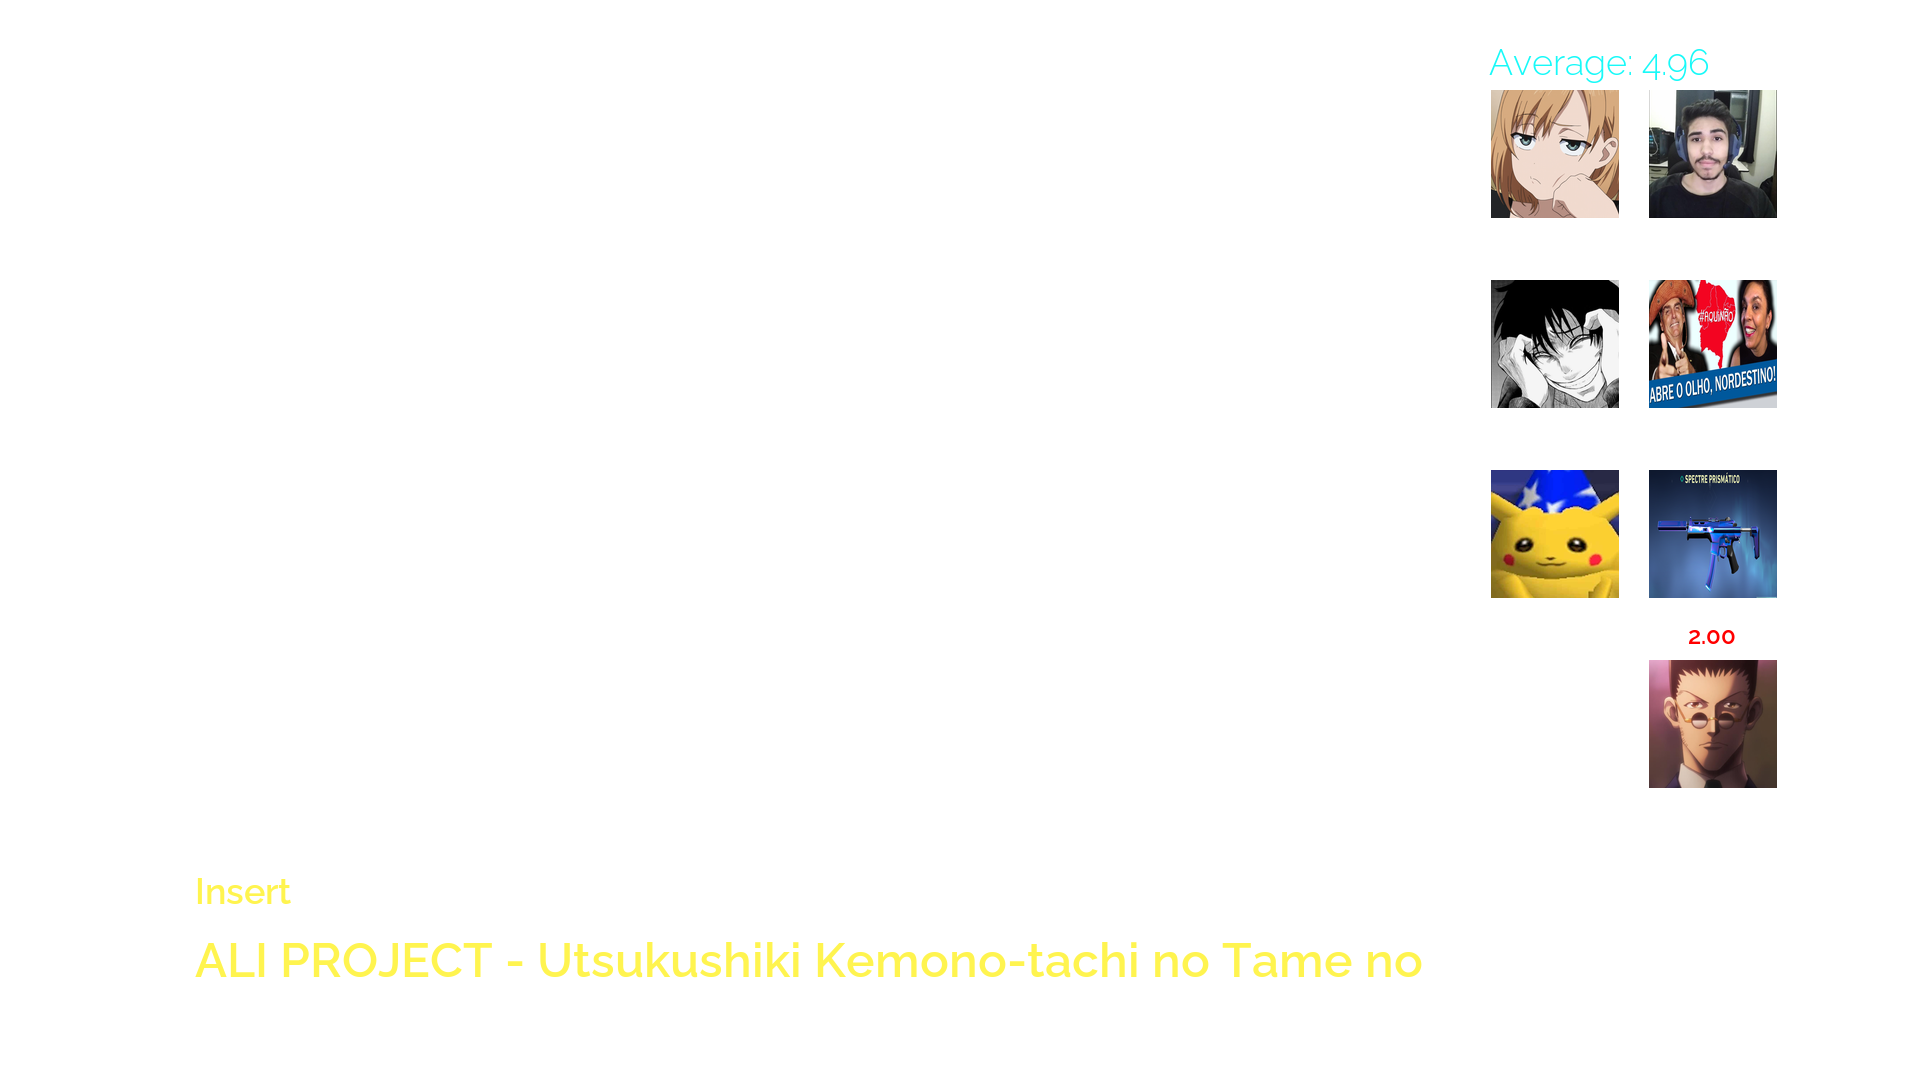
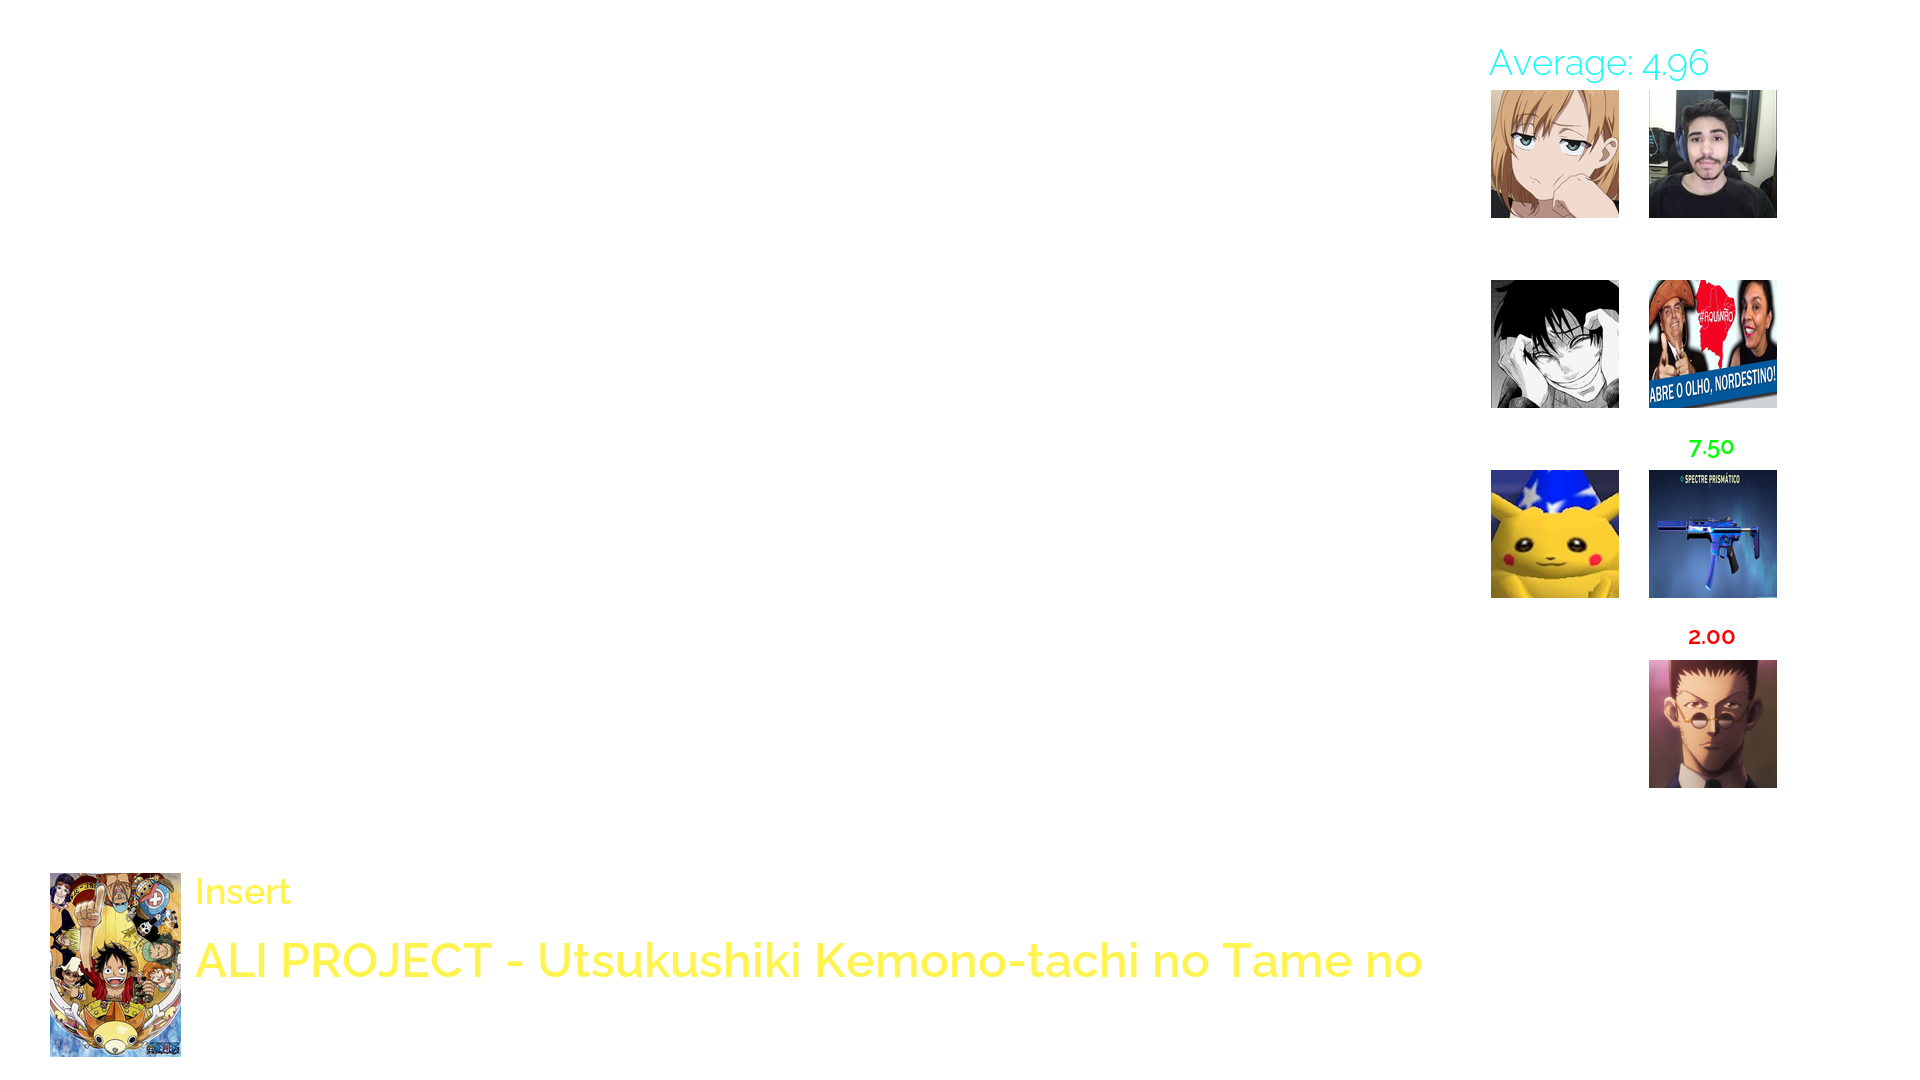
Implementado cores para mensagens
Iniciado implementação da refatoração do código do VideoGenerator

Changed region(s): [[0.0, 0.7944, 0.0938, 0.9778], [0.875, 0.3972, 0.9062, 0.4278]]

diff --git a/entities/image_generator.py b/entities/image_generator.py
@@ -5,53 +5,67 @@ from config import Config
 from entities.colors import Colors
 from entities.fonts import Fonts
 from entities.song import Song
+from entities.terminal_messages import TerminalMessages
 from entities.participant import Participant
 from .pixels_position import getPixels
 import requests
 
 class ImageGenerator:
   def __init__(self, data : str):
-    self._title = data["title"]
-    self.songs = []
-    self.participants_name = data['participants']
-    self.pixels = getPixels(len(self.participants_name))
-    self.__check_images(self.participants_name)
+    self.__title  = data["title"]
+    self.__songs = []
+    self.__participants_name = data['participants']
+    self.pixels = getPixels(len(self.__participants_name))
+    self.__check_images(self.__participants_name)
     series = data['series']
     for serie in series:
       participants = []
       for index, p in enumerate(series[serie]['notes']):
-        participant = Participant(self.participants_name[index], p)
+        participant = Participant(self.__participants_name[index], p)
         participants.append(participant)
       participants.sort(key=lambda x: x.get_grade(), reverse=False)
       song = Song(serie, series[serie]['type'], series[serie]['song'], participants, series[serie]['average'], series[serie]['cover'])
-      self.songs.append(song)
+      self.__songs.append(song)
 
   def generate_images(self) -> bool:
-    for index, song in enumerate(self.songs):
-      self.__generate_image(song, f'{str(index)}.png')
+    TerminalMessages.warning('Generating images...')
+    for index, song in enumerate(self.__songs):
+      TerminalMessages.blue(f'Generating image of "{song.get_name()}"...')
+      self.__generate_image(song, str(len(self.__songs) - index), f'{str(index)}.png')
+    TerminalMessages.success('Completed.')
     return True
   
-  def __generate_image(self, song: Song, file_name: str):
-    (song.get_participants_name())
+  def __generate_image(self, song: Song, position: str, file_name: str):
+    # song.get_participants_name() // Loog de posição e notas dos participantes
     image = Image.new('RGBA', (1920, 1080), color='#00000000')
-    self.__place_info_text_in_image(song.get_name(), song.get_song(), song.get_type(), self._title, image)
+    self.__place_info_text_in_image(song.get_name(), song.get_song(), song.get_type(), self.__title , position, image)
     self.__place_white_rectangle_as_border(image)
     self.__place_average_grade(song.get_average(), image)
     self.__place_participants_images(song.get_participants(), image)
+    self.__place_cover_image(song.get_cover(), image)
     image.save(f"{Config.SAVE_PATH}/{file_name}")
 
+  def __place_cover_image(self, cover: str, image: Image):
+    if not Path(Config.THUMBNAIL_PATH+"/{}".format(cover)).is_file():
+      TerminalMessages.error(f'Failed placing cover image: Did not find cover image: "{cover}"')
+      return
+    cover = Image.open(Config.THUMBNAIL_PATH+"/{}".format(cover)).convert('RGB').resize((131, 184), Image.Resampling.LANCZOS)
+    image.paste(cover, (50, 873))
+  
   def __place_participants_images(self, participants: list, image: Image) -> ImageDraw:
     draw = ImageDraw.Draw(image)
     for i, participant in enumerate(participants):
+      
+      if not Path(Config.PARTICIPANTS_PATH + "/{}.png".format(participant.get_name())).is_file():
+        raise ImageGeneratorException(f'Did not find image from participant: {participant.get_name()}')
+      
       color = 1 if i == 0 else 2 if i == len(participants) - 1 else 0
       
-      draw.text(self.pixels[0][self.participants_name.index(participant.get_name())], participant.get_name(),fill=(255, 255, 255), font=Fonts.font242, anchor='mm')
-      draw.text(self.pixels[1][self.participants_name.index(participant.get_name())], participant.get_grade(), fill=Colors.colors_note[color], font=Fonts.font242, anchor='mm')
-      parImg = Image.open(Config.PARTICIPANTS_PATH + "/{}.png".format(participant.get_name()))
-      parImg = parImg.convert('RGB')
-      parImg = parImg.resize((128, 128), Image.Resampling.LANCZOS)
+      draw.text(self.pixels[0][self.__participants_name.index(participant.get_name())], participant.get_name(),fill=(255, 255, 255), font=Fonts.font242, anchor='mm')
+      draw.text(self.pixels[1][self.__participants_name.index(participant.get_name())], participant.get_grade(), fill=Colors.colors_note[color], font=Fonts.font242, anchor='mm')
+      parImg = ((Image.open(Config.PARTICIPANTS_PATH + "/{}.png".format(participant.get_name()))).convert('RGB')).resize((128, 128), Image.Resampling.LANCZOS)
       parImg = ImageOps.expand(parImg, border=(2, 2, 2, 2), fill="#ffffff")
-      image.paste(parImg, self.pixels[2][self.participants_name.index(participant.get_name())])
+      image.paste(parImg, self.pixels[2][self.__participants_name.index(participant.get_name())])
     return draw
   
   def __check_images(self, participants: list):
@@ -69,27 +83,24 @@ class ImageGenerator:
     text.rectangle(((49, 87), (1330, 808)),outline="white")
     return text 
   
-  def __place_info_text_in_image(self, anime: str, song: str, type:str, title: str, image) -> ImageDraw:
+  def __place_info_text_in_image(self, anime: str, song: str, type:str, title: str, position:str, image : Image) -> ImageDraw:
     text = ImageDraw.Draw(image)
     text.text((195, 1029), anime, fill=(255, 255, 255), font=Fonts.font482, anchor='lm')
     text.text((195, 960), song, fill=(255, 244, 79), font=Fonts.font482, anchor='lm')
     text.text((195, 891), type, fill=(255, 244, 79), font=Fonts.font362, anchor='lm')
     text.text((51, 80), title, fill=(255, 255, 255),font=Fonts.font242, anchor='ld')
-    text.text((113, 839), str('REMEMBER NUMBER'), fill=(255, 255, 255), font=Fonts.font60, anchor='mm')
+    text.text((113, 839), position, fill=(255, 255, 255), font=Fonts.font60, anchor='mm')
     return text
 
   def get_participants_name(self):
-    return ' '.join(self.participants_name)
-
+    return ' '.join(self.__participants_name)
   
   def __get_images_from_web_server(self, participants: list):
     for participant in participants:
-        print('-------------')
-        print(participant)
         response = requests.get(Config.WEBURL + "/{}.png".format(participant))
         if(response.status_code == 200):
           img = Image.open(BytesIO(response.content))
           img = img.resize((640,640), Image.Resampling.LANCZOS)
           img.save(Config.PARTICIPANTS_PATH + "/{}.png".format(participant))
         else:
-          print(f'NÃO ACHOU IMAGEM: {participant}') 
+          TerminalMessages.error(f'Did not find image from participant: "{participant}"') 

diff --git a/config.py b/config.py
@@ -4,7 +4,8 @@ class Config:
   google = False
 
   root_dirname = path.abspath(path.join(__file__, pardir))
-  JSON_PATH = path.abspath(path.join(root_dirname, 'images.json'))
+  IMAGES_JSON_PATH = path.abspath(path.join(root_dirname, 'images.json'))
+  VIDEOS_JSON_PATH = path.abspath(path.join(root_dirname, 'video.json'))
 
   RALEWAY_LIGHT_PATH = path.join(root_dirname, 'assets', 'fonts', 'Raleway-Light.ttf')
   RALEWAY_SEMI_PATH = path.join(root_dirname, 'assets', 'fonts', 'Raleway-SemiBold.ttf')
@@ -13,10 +14,16 @@ class Config:
 
   THUMBNAIL_PATH = "./images_generator/thumbnails"
   PARTICIPANTS_PATH = path.abspath(path.join(root_dirname, "assets", "participants-images"))
+  THUMBNAIL_PATH = path.abspath(path.join(root_dirname, "assets", "cover-images"))
   
   SAVE_PATH = path.abspath(path.join(root_dirname, "result", "images"))
+  VIDEO_PATH = path.abspath(path.join(root_dirname, "result", "videos"))
+
 
   if(google == True):
+      VIDEO_PATH = "/content/drive/MyDrive/output_party_rank/"
+      JSON_PATH = "/content/party-rank-video-generator/json_example.json"
+      
       THUMBNAIL_PATH = "/content/party-rank-video-generator/images_generator/thumbnails"
       JSON_PATH = "/content/party-rank-video-generator/images_generator/series2.json"
       RALEWAY_LIGHT_PATH = "/content/party-rank-video-generator/images_generator/Raleway-Light.ttf"

diff --git a/main.py b/main.py
@@ -1,18 +1,18 @@
 from entities.image_generator import ImageGenerator 
+from entities.terminal_messages import TerminalMessages 
 from config import Config
 import json
-
+import os
 print('Executing')
 
 def leave():
   print("Programa encerrado.")
 
 def generate_images():
-  with open(Config.JSON_PATH, 'r') as f:
+  with open(Config.IMAGES_JSON_PATH, 'r') as f:
       series = json.load(f)
   generator = ImageGenerator(series)
   generator.generate_images()
-  print(generator.get_participants_name())
 
 options = [
   {
@@ -30,8 +30,8 @@ def show_options():
   for index in range(0, len(options)):
     message = options[index]['message']
     print(f"{index} - {message}")
-
   print("====================")
+
 number_option = 999
 while number_option > 0:
   show_options()
@@ -42,5 +42,6 @@ while number_option > 0:
   action = option['action']
 
   print("====================")
-  print(message)
+  os.system('cls' if os.name == 'nt' else 'clear')
+  TerminalMessages.message(f'[Command executed: "{message}"]')
   action()

diff --git a/entities/video_generator.py b/entities/video_generator.py
@@ -1,0 +1,29 @@
+from entities.terminal_messages import TerminalMessages
+from config import Config
+class VideoGenerator:
+  def __init__(self):
+    self
+  
+  def test_json():
+    erros = ''
+    
+    for i in songs:
+      t = 0
+      cut_time = songs[i]["cut_time"]
+      image = songs[i]["image_path"]
+      video = songs[i]["video_path"]
+      if not os.path.isfile(image):
+        TerminalMessages(f'Did not found image: "{i}".')
+        t = 1
+      if not os.path.isfile(video):
+        TerminalMessages(f'Did not found video file: "{i}".')
+        t = 1
+      if(cut_time[0] > cut_time[1]):
+        TerminalMessages(f"Invalid time length: "{i}".")
+        t = 1
+      if(cut_time[1] - cut_time[0] < 3):
+        TerminalMessages(f"Invalid time length: "{i}", cut time has to be hight than 3 seconds.")
+        t = 1
+      if t == 1:
+        TerminalMessages("="*20)
+    return(True if erros == '' else False)

diff --git a/entities/terminal_messages.py b/entities/terminal_messages.py
@@ -1,0 +1,32 @@
+class bcolors:
+  HEADER = '\033[95m'
+  OKBLUE = '\033[94m'
+  OKCYAN = '\033[96m'
+  OKGREEN = '\033[92m'
+  WARNING = '\033[93m'
+  FAIL = '\033[91m'
+  ENDC = '\033[0m'
+  BOLD = '\033[1m'
+  UNDERLINE = '\033[4m'
+
+class TerminalMessages:
+  
+  @staticmethod
+  def success(message):
+    print(bcolors.OKGREEN + message + '\x1b[0m')
+
+  @staticmethod
+  def warning(message):
+    print(bcolors.WARNING + message + '\x1b[0m')
+    
+  @staticmethod
+  def blue(message):
+    print(bcolors.OKCYAN + message + '\x1b[0m')
+
+  @staticmethod
+  def error(message):
+    print(bcolors.FAIL + message + '\x1b[0m')
+
+  @staticmethod
+  def message(message):
+    print(message) 

diff --git a/entities/clip.py b/entities/clip.py
@@ -1,0 +1,5 @@
+class Clip:
+  def __init__(self, image: str, video: str, cut_time: tuple):
+    self.image = image
+    self.video = video
+    self.cut_time = cut_time
